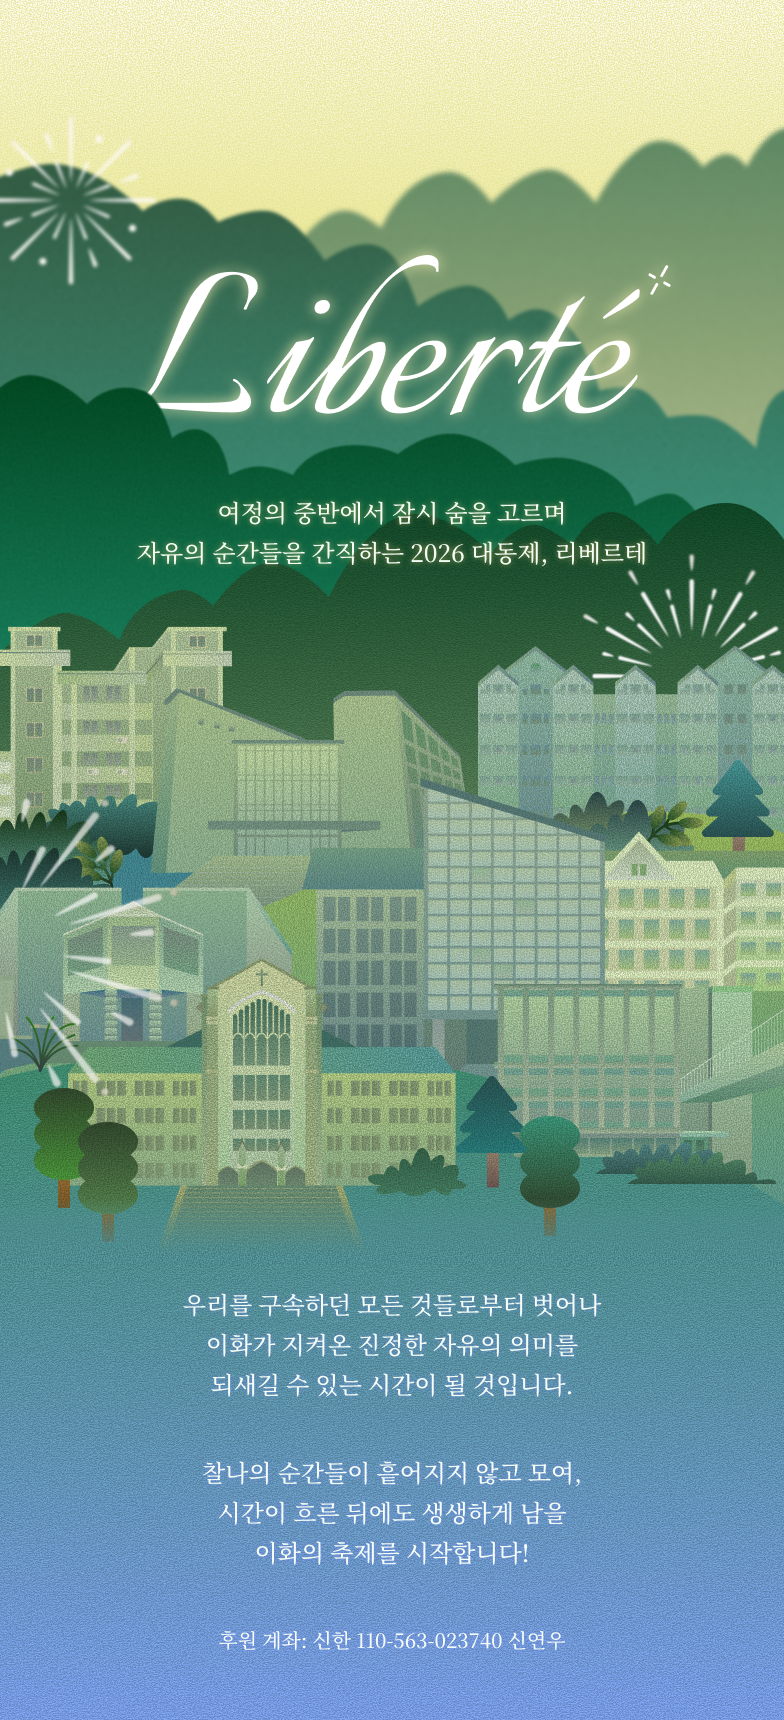
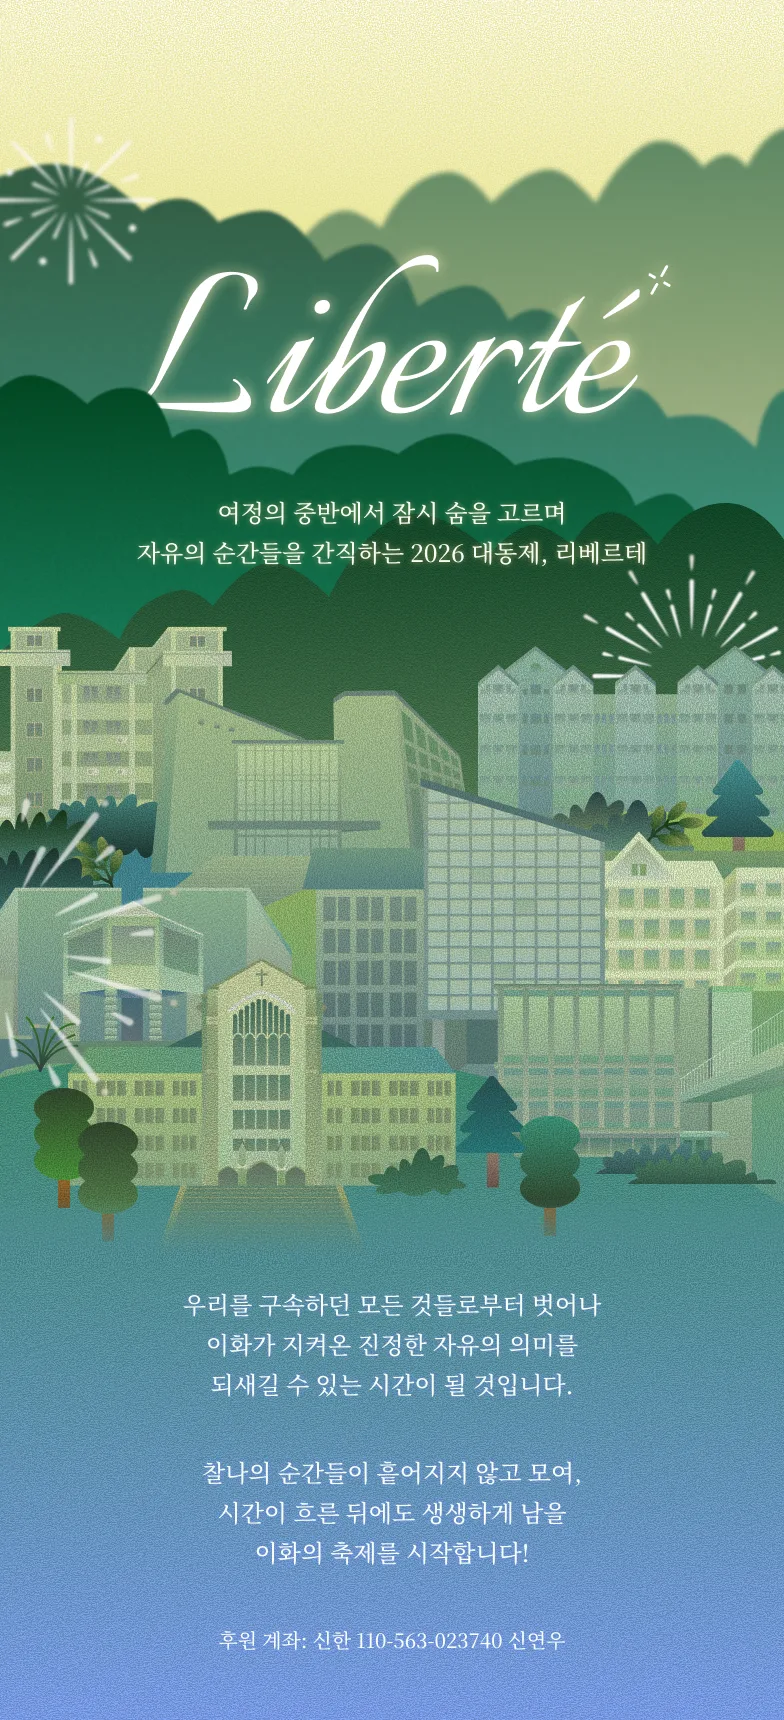
♻️ 홈화면 최적화

Changed region(s): [[0.0, 0.0, 1.0, 0.0616]]

diff --git a/src/pages/home/HomePage.jsx b/src/pages/home/HomePage.jsx
@@ -50,19 +50,39 @@ const HomePage = () => {
         </div>
         <div className="flex flex-col gap-3">
           <div className="flex gap-3 overflow-hidden">
-            <img className="h-45 w-full rounded-r-xl object-cover" src="/images/home-booth-1.png" />
-            <img className="h-45 w-full rounded-l-xl object-cover" src="/images/home-booth-2.png" />
+            <img
+              className="h-45 w-full rounded-r-xl object-cover"
+              src="/images/home-booth-1.webp"
+              alt="booth-image"
+              loading="lazy"
+            />
+            <img
+              className="h-45 w-full rounded-l-xl object-cover"
+              src="/images/home-booth-2.webp"
+              alt="booth-image"
+              loading="lazy"
+            />
           </div>
           <div className="flex gap-3 overflow-hidden">
-            <img className="h-45 w-full rounded-r-xl object-cover" src="/images/home-booth-3.png" />
-            <img className="h-45 w-full rounded-l-xl object-cover" src="/images/home-booth-4.png" />
+            <img
+              className="h-45 w-full rounded-r-xl object-cover"
+              src="/images/home-booth-3.webp"
+              alt="booth-image"
+              loading="lazy"
+            />
+            <img
+              className="h-45 w-full rounded-l-xl object-cover"
+              src="/images/home-booth-4.webp"
+              alt="booth-image"
+              loading="lazy"
+            />
           </div>
         </div>
       </div>
       {/* Events */}
       <div
         className="relative inset-0 flex flex-col items-center gap-10 overflow-hidden bg-cover bg-center py-[4.44rem]"
-        style={{ backgroundImage: 'url(/images/home-event-bg.png)' }}
+        style={{ backgroundImage: 'url(/images/home-event-bg.webp)' }}
       >
         <img className="h-12.5 w-39.5" src="/icons/icon-event.svg" alt="event" />
         <div className="flex flex-col gap-5 text-center text-xs font-normal text-white">
@@ -108,13 +128,13 @@ const HomePage = () => {
           <div className="flex gap-3 overflow-hidden">
             <img
               className="h-43.25 w-full rounded-r-xl object-cover"
-              src="/images/home-performance-1.png"
+              src="/images/home-performance-1.webp"
               alt="performance-image"
               loading="lazy"
             />
             <img
               className="h-43.25 w-full rounded-l-xl object-cover"
-              src="/images/home-performance-2.png"
+              src="/images/home-performance-2.webp"
               alt="performance-image"
               loading="lazy"
             />
@@ -122,13 +142,13 @@ const HomePage = () => {
           <div className="flex gap-3 overflow-hidden">
             <img
               className="h-39.75 w-full rounded-r-xl object-cover"
-              src="/images/home-performance-3.png"
+              src="/images/home-performance-3.webp"
               alt="performance-image"
               loading="lazy"
             />
             <img
               className="h-39.75 w-full rounded-l-xl object-cover"
-              src="/images/home-performance-4.png"
+              src="/images/home-performance-4.webp"
               alt="performance-image"
               loading="lazy"
             />

diff --git a/index.html b/index.html
@@ -23,17 +23,21 @@
       content="width=device-width, initial-scale=1, maximum-scale=1.0, user-scalable=no, viewport-fit=cover"
     />
     <title>2026 해방이화 140주년 대동제 Liberté (리베르테): Moment</title>
-    <link rel="preload" as="image" href="/images/home-poster.webp" />
-    <link
-      rel="stylesheet"
-      href="https://cdn.jsdelivr.net/gh/orioncactus/pretendard/dist/web/variable/pretendardvariable.css"
-    />
+    <link rel="preload" as="image" href="/images/home-poster.webp" fetchpriority="high" />
     <link rel="preconnect" href="https://fonts.googleapis.com" />
     <link rel="preconnect" href="https://fonts.gstatic.com" crossorigin />
     <link
-      href="https://fonts.googleapis.com/css2?family=Cormorant+Garamond:ital,wght@0,300..700;1,300..700&family=Euphoria+Script&family=Inter:ital,opsz,wght@0,14..32,100..900;1,14..32,100..900&family=Noto+Sans+KR:wght@100..900&family=Noto+Serif+KR:wght@200..900&display=swap"
-      rel="stylesheet"
+      rel="preload"
+      as="style"
+      href="https://fonts.googleapis.com/css2?family=Noto+Serif+KR:wght@400;500;700&display=swap"
+      onload="this.onload=null;this.rel='stylesheet'"
     />
+    <noscript>
+      <link
+        rel="stylesheet"
+        href="https://fonts.googleapis.com/css2?family=Noto+Serif+KR:wght@400;500;700&display=swap"
+      />
+    </noscript>
   </head>
   <body>
     <!-- Google Tag Manager (noscript) -->

diff --git a/src/index.css b/src/index.css
@@ -1,5 +1,13 @@
 @import 'tailwindcss';
 
+@font-face {
+  font-family: 'Pretendard Variable';
+  font-weight: 45 920;
+  font-style: normal;
+  font-display: swap;
+  src: url('/fonts/PretendardVariable.woff2') format('woff2-variations');
+}
+
 /* =====================
    Theme (Design Tokens)
 ===================== */
@@ -11,11 +19,7 @@
   --font-pretendard:
     'Pretendard Variable', 'Pretendard', system-ui, -apple-system, BlinkMacSystemFont, 'Segoe UI',
     Roboto, 'Apple SD Gothic Neo', 'Noto Sans KR', sans-serif;
-  --font-inter: 'Inter', sans-serif;
-  --font-noto-sans: 'Noto Sans KR', sans-serif;
   --font-noto-serif: 'Noto Serif KR', serif;
-  --font-cormorant: 'Cormorant Garamond', serif;
-  --font-euphoria: 'Euphoria Script', cursive;
 
   /* =====================
      Colors

diff --git a/src/components/Footer.jsx b/src/components/Footer.jsx
@@ -23,7 +23,7 @@ const Footer = () => {
   return (
     <div
       className="relative inset-0 w-full overflow-hidden bg-cover bg-center"
-      style={{ backgroundImage: 'url(/images/footer-background.png)' }}
+      style={{ backgroundImage: 'url(/images/footer-background.webp)' }}
     >
       {/* 컨텐츠 */}
       <div className="relative z-10 flex w-full flex-col items-center gap-4 py-5 text-center text-lime-700">